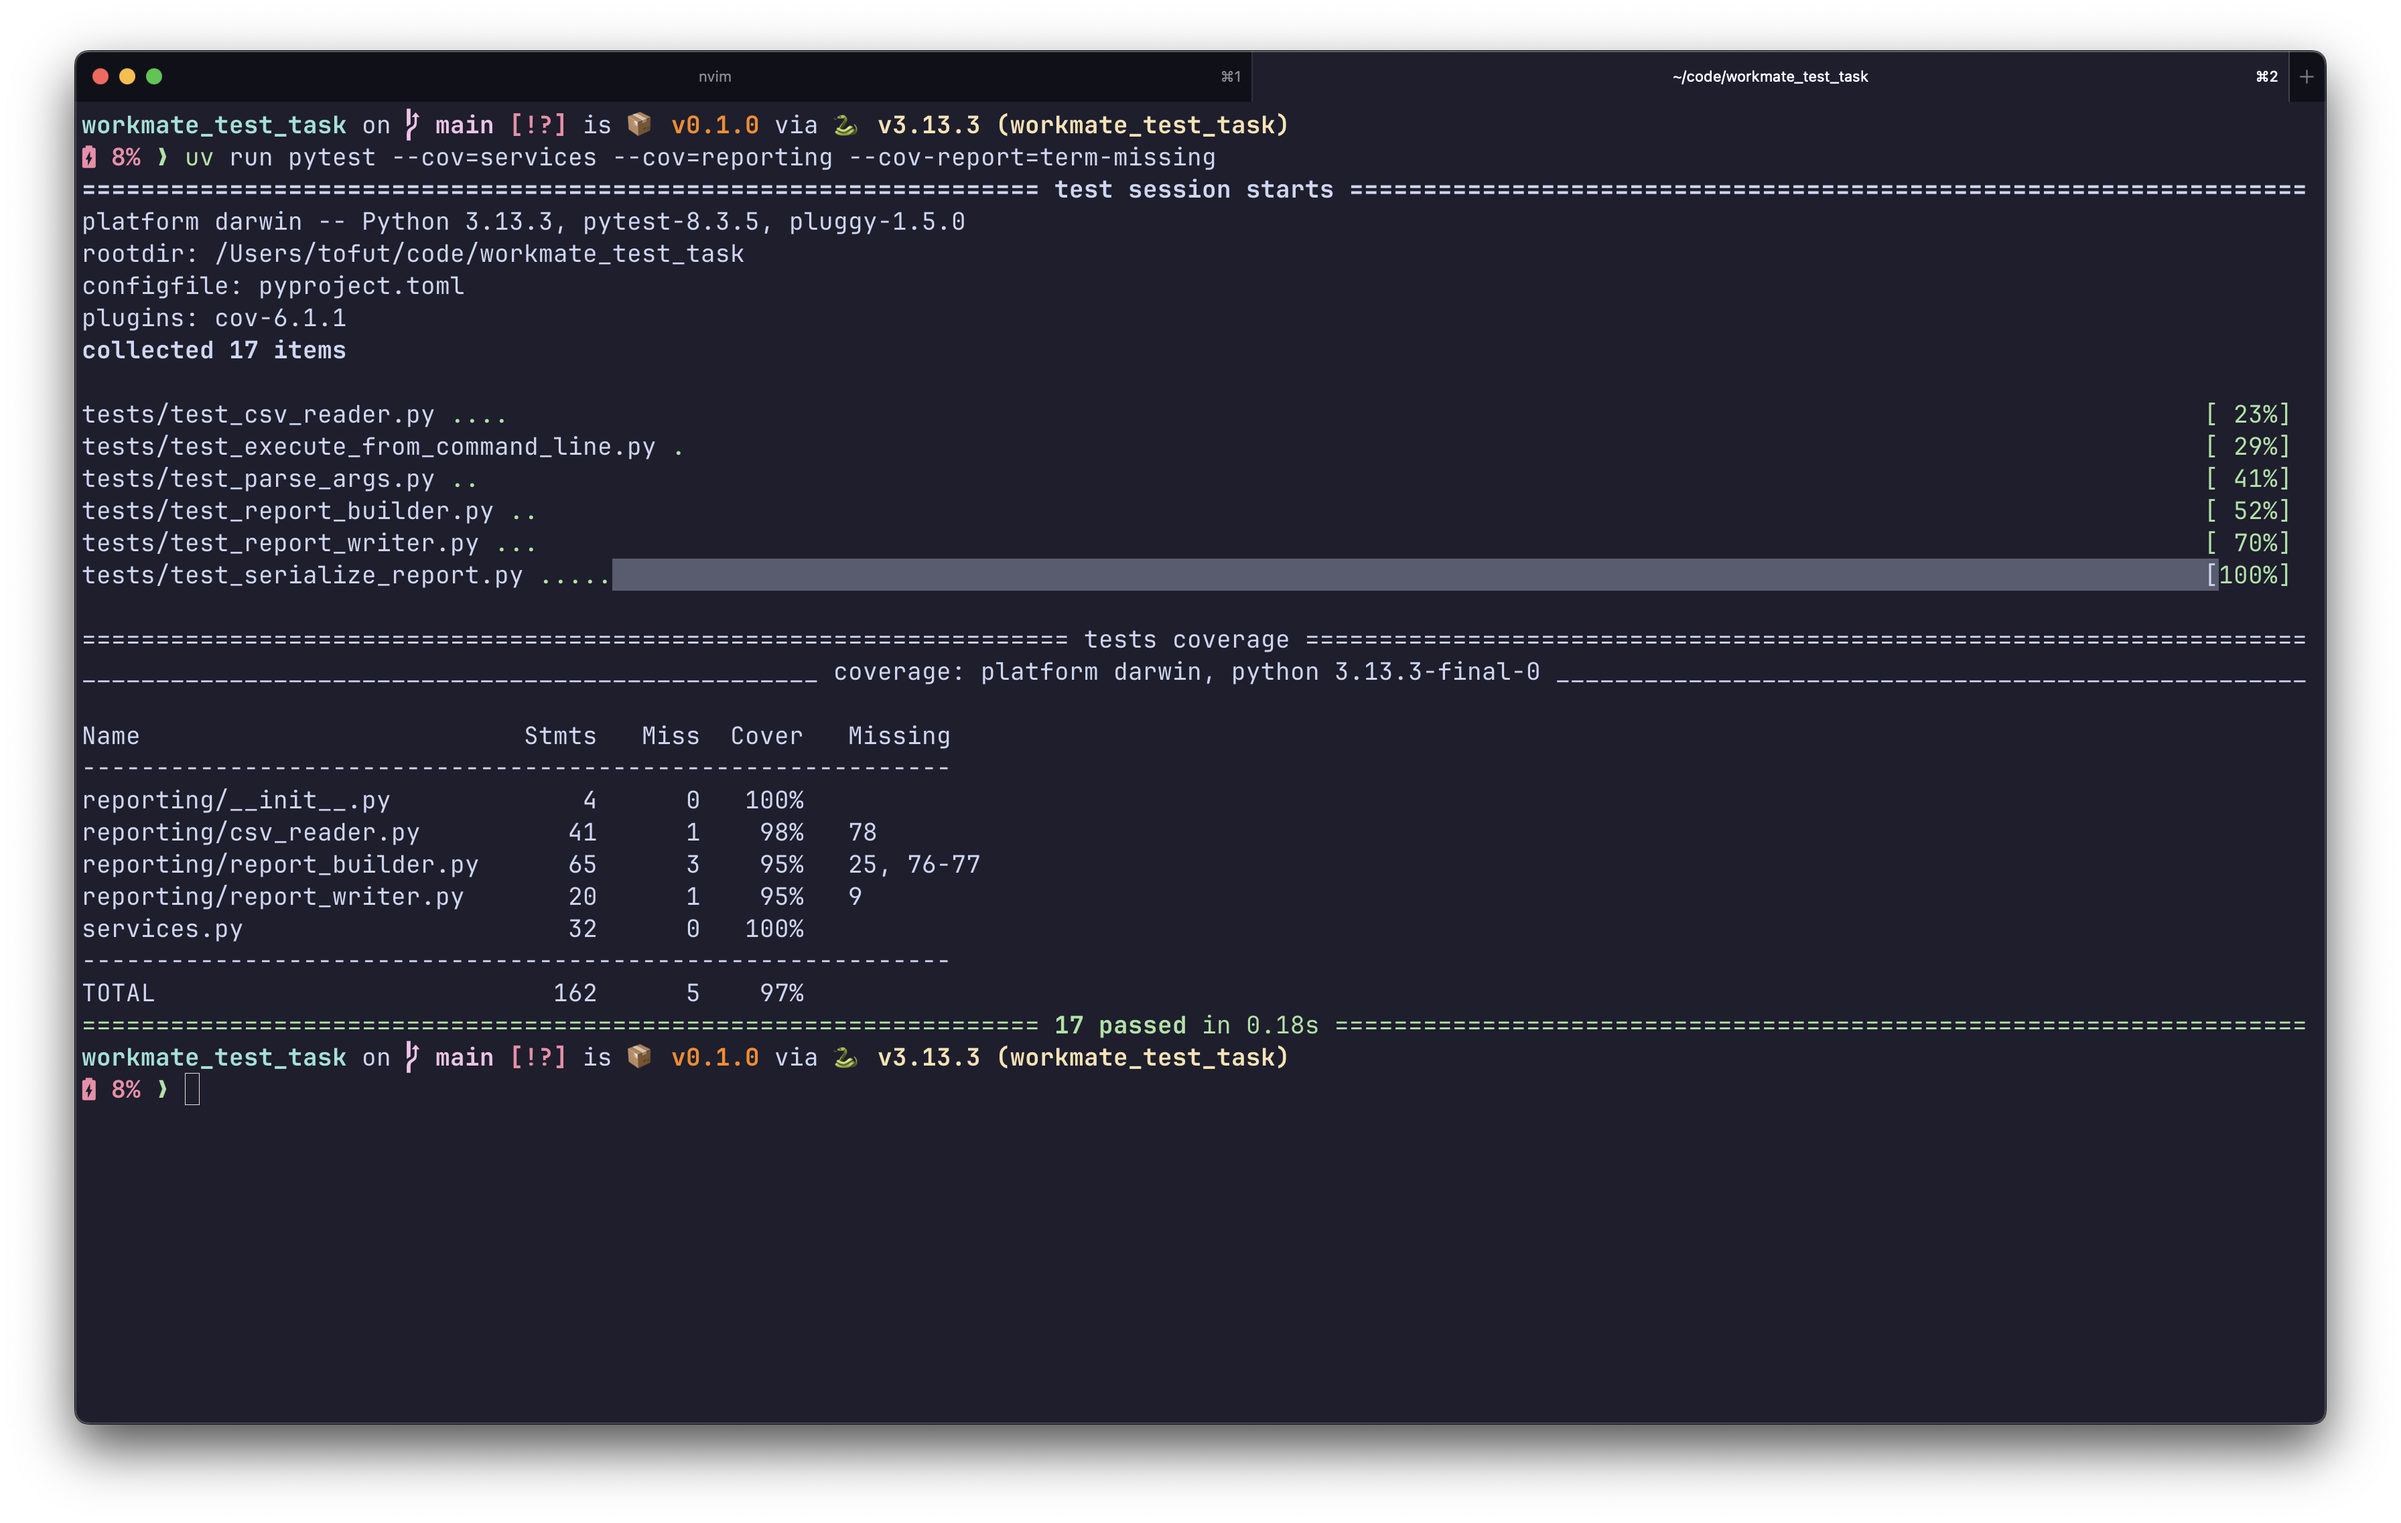
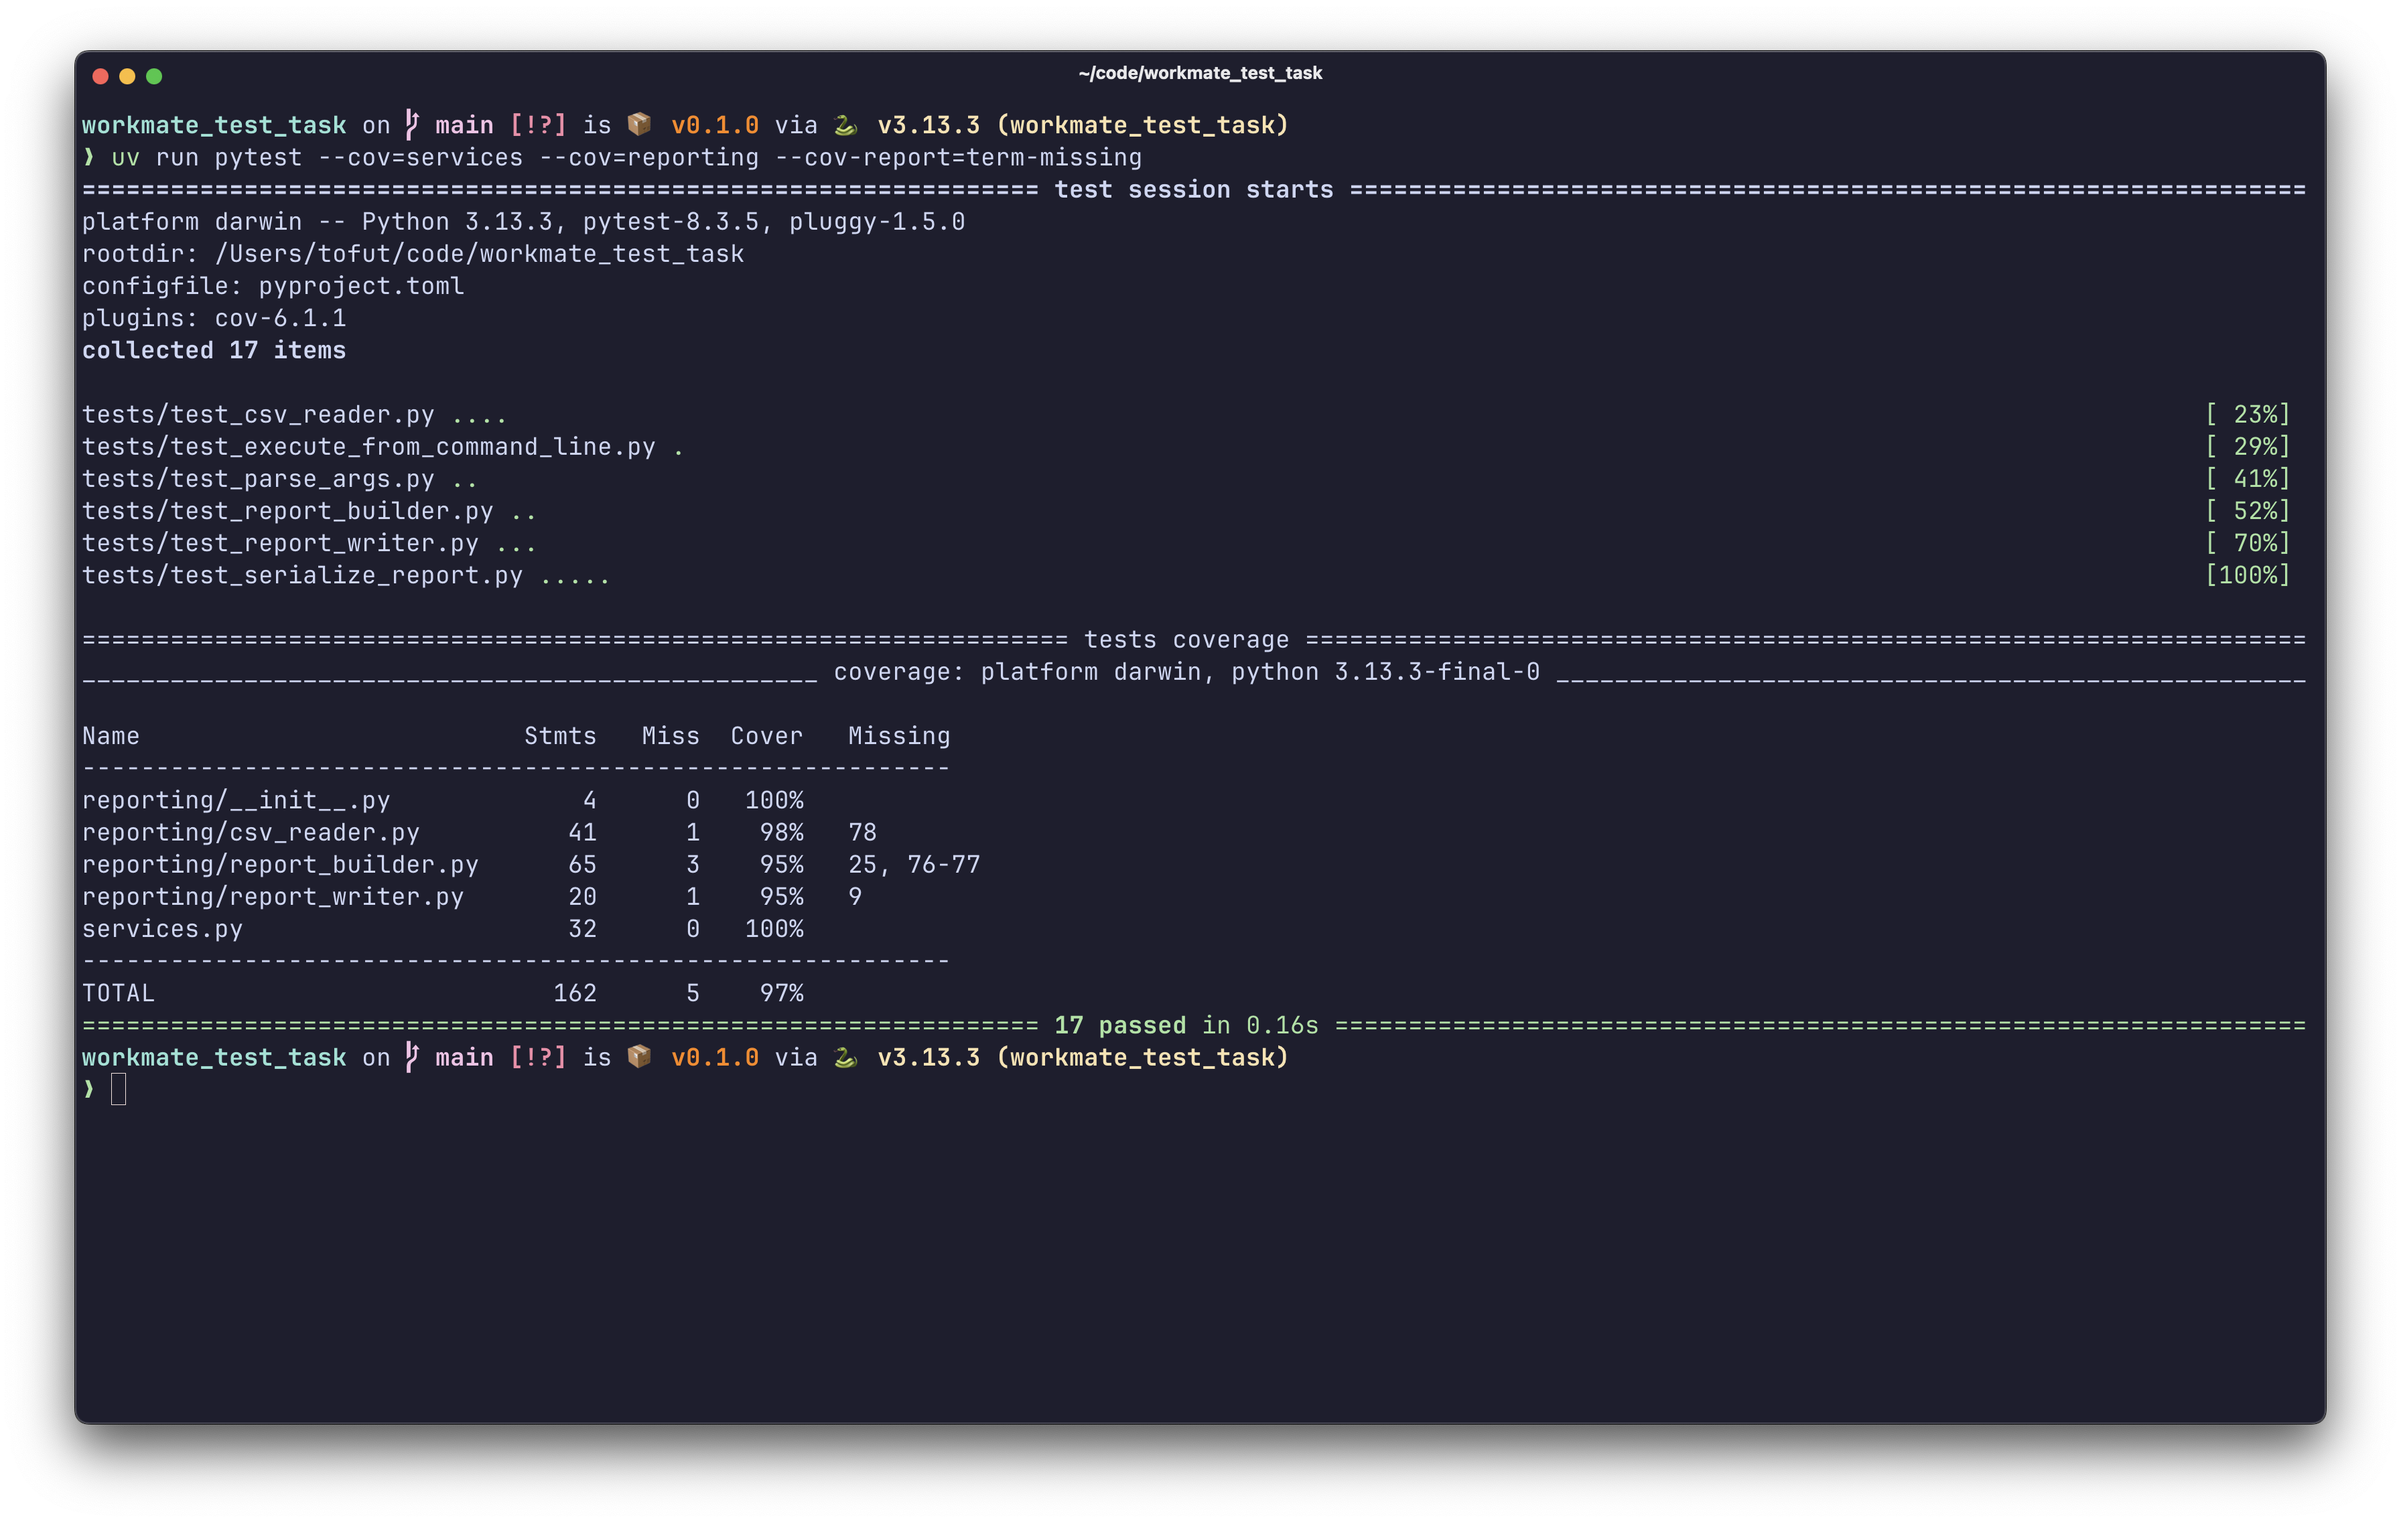
docs: update README.md

diff --git a/README.md b/README.md
@@ -13,11 +13,21 @@
 
 > [!IMPORTANT]
 > Перед запуском убедитесь, что входные CSV-файлы находятся в директории res/
-
+### Запуск используя uv
 ```bash
 git clone https://github.com/tofutych/workmate-test-task.git
 cd workmate-test-task
-python3 main.py data1.csv data2.csv data3.csv --report payout
+uv run main.py data1.csv data2.csv data3.csv --report payout
+```
+
+### Запуск без использования uv
+```bash
+git clone https://github.com/tofutych/workmate-test-task.git
+cd workmate-test-task
+python -m venv .venv
+source .venv/bin/activate  # или .venv\Scripts\activate на Windows
+pip install -r requirements.txt
+python main.py res/data1.csv res/data2.csv res/data3.csv --report payout
 ```
 
 ## 📸 Скриншот
